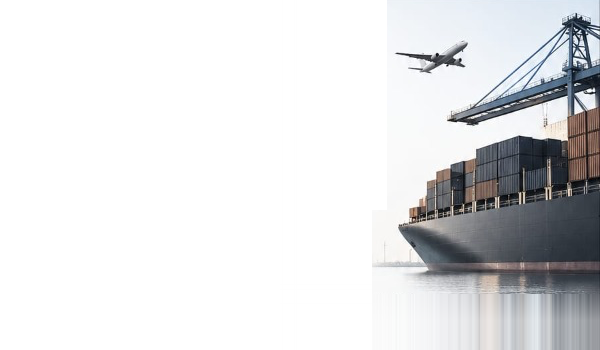
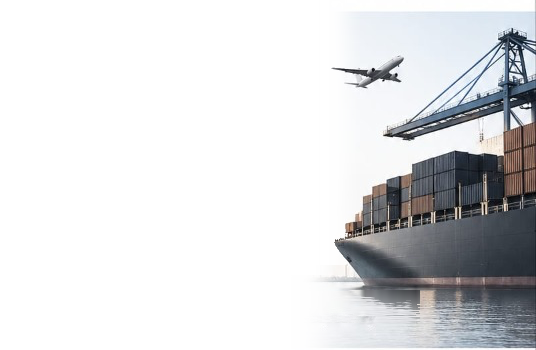
fix(hero): eliminate square edge with seamless organic fade and gradient overlay

Changed region(s): [[0.597, 0.0, 1.0, 1.0], [0.6269, 0.1143, 0.7761, 0.2571]]

diff --git a/src/components/Hero.tsx b/src/components/Hero.tsx
@@ -13,6 +13,8 @@ export const Hero: React.FC = () => {
           className="w-full h-full object-cover object-right"
           loading="eager"
         />
+        {/* Soft organic overlay gradient to dissolve any square edge completely into white */}
+        <div className="absolute inset-y-0 left-0 w-[55%] sm:w-[50%] bg-gradient-to-r from-white via-white/80 via-white/30 to-transparent pointer-events-none" />
       </div>
 
       <div className="max-w-6xl mx-auto px-4 sm:px-6 lg:px-8 relative z-10">
